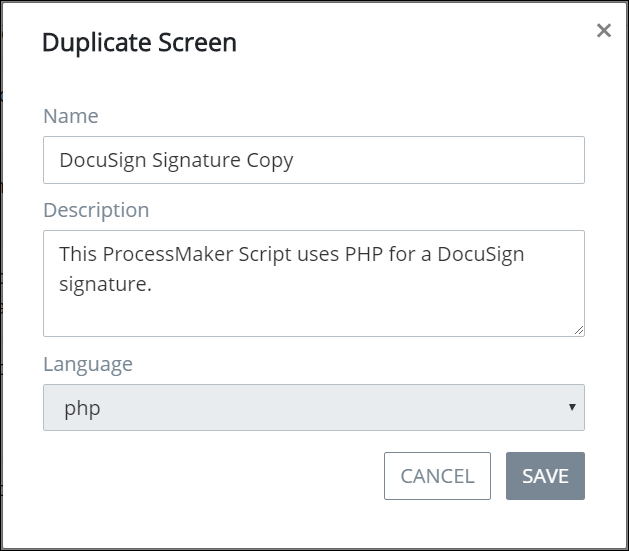
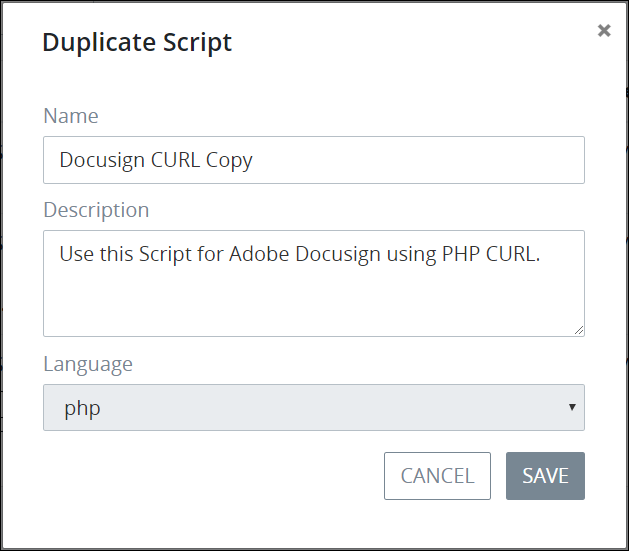
GitBook: [processmaker] 5 pages and 2 assets modified

diff --git a/designing-processes/design-forms/manage-forms/view-all-forms.md b/designing-processes/design-forms/manage-forms/view-all-forms.md
@@ -29,8 +29,8 @@ The **Screens** page displays the following information in tabular format about 
 * **Name:** The **Name** column displays the name of the ProcessMaker Screen. Click the name to edit the ProcessMaker Screen in [Screens Builder](../screens-builder/).
 * **Description:** The **Description** column displays the description of the ProcessMaker Screen. See [Edit Script Configuration](../../scripts/manage-scripts/edit-script-configuration.md#edit-configuration-information-about-a-processmaker-script) for more information.
 * **Type:** The **Type** column displays which type the ProcessMaker Screen is. See [Screen Types](../screens-builder/types-for-screens.md).
-* **Modified:** The **Modified** column displays the date and time the ProcessMaker Screen was last modified. The time zone setting to display the time is according to the ProcessMaker 4 server unless your [user profile's](../../../using-processmaker/profile-settings.md#change-your-profile-settings) **Time zone** setting is specified.
-* **Created:** The **Created** column displays the date and time the ProcessMaker Screen was created. The time zone setting to display the time is according to the ProcessMaker 4 server unless your [user profile's](../../../using-processmaker/profile-settings.md#change-your-profile-settings) **Time zone** setting is specified.
+* **Modified:** The **Modified** column displays the date and time the ProcessMaker Screen was last modified. The time zone setting to display the time is according to the ProcessMaker Spark server unless your [user profile's](../../../using-processmaker/profile-settings.md#change-your-profile-settings) **Time zone** setting is specified.
+* **Created:** The **Created** column displays the date and time the ProcessMaker Screen was created. The time zone setting to display the time is according to the ProcessMaker Spark server unless your [user profile's](../../../using-processmaker/profile-settings.md#change-your-profile-settings) **Time zone** setting is specified.
 
 {% hint style="info" %}
 ### Search for a ProcessMaker Screen

diff --git a/designing-processes/design-forms/what-is-a-form.md b/designing-processes/design-forms/what-is-a-form.md
@@ -6,9 +6,9 @@ description: Understand how to use Screens in ProcessMaker Spark.
 
 ## Overview
 
-In ProcessMaker Spark, any Screen can be re-used in any Process model. Many Processes require the same information to be gathered for a [Request](../../using-processmaker/requests/what-is-a-request.md) such as a Request participant's name, email address, and other business information. In other words, "design once, use anywhere."
+In ProcessMaker Spark, a Screen presents information for a person to interact with or view. A form is an example of a ProcessMaker Screen. Any ProcessMaker Screen can be re-used in any Process model. Many Processes require the same type of information be gathered, such as a [Request](../../using-processmaker/requests/what-is-a-request.md) participant's name, email address, and other business information. In other words, "design once, use anywhere."
 
-In simple forms, ProcessMaker Screens can display information. However, ProcessMaker Screens also allow users to interact with Request information. Below are a few of ways users can interact with ProcessMaker Screens:
+In simple forms, ProcessMaker Screens can display information. However, ProcessMaker Screens also allow people to interact with Request information. Below are a few of ways Request participants can interact with ProcessMaker Screens:
 
 * Enter information into a Request.
 * Review information and then approve or reject a Request.

diff --git a/designing-processes/scripts/manage-scripts/duplicate-a-script.md b/designing-processes/scripts/manage-scripts/duplicate-a-script.md
@@ -18,7 +18,7 @@ See the ProcessMaker [Scripts](../../../processmaker-administration/permission-d
 Follow these steps to duplicate a ProcessMaker Script:
 
 1. [View your ProcessMaker Scripts](view-all-scripts.md). The **Scripts** page displays.
-2. Select the **Duplicate** icon![](../../../.gitbook/assets/duplicate-script-processes.png)for your ProcessMaker Script. The **Duplicate Screen** screen displays.  
+2. Select the **Duplicate** icon![](../../../.gitbook/assets/duplicate-script-processes.png)for your ProcessMaker Script. The **Duplicate Script** screen displays.  
 
    ![](../../../.gitbook/assets/duplicate-script-screen-processes.png)
 
@@ -28,7 +28,7 @@ Follow these steps to duplicate a ProcessMaker Script:
 4. Click **Save**.
 
 {% hint style="info" %}
-The **Language** field shows in which programming language the original ProcessMaker Script is written. The duplicate ProcessMaker Script must be in the same programming language.
+The **Language** field shows in which programming language the original ProcessMaker Script is written. The duplicated ProcessMaker Script must use the same programming language.
 {% endhint %}
 
 ## Related Topics

diff --git a/processmaker-administration/add-users/manage-user-accounts/create-a-user-account.md b/processmaker-administration/add-users/manage-user-accounts/create-a-user-account.md
@@ -23,8 +23,8 @@ Follow these steps to create a ProcessMaker user account:
    ![](../../../.gitbook/assets/add-a-user-screen-admin.png)
 
 3. In the **Username** field, enter the username associated with the ProcessMaker user account. This is a required field.
-4. In the **First name** field, enter the first name of the person associated with the ProcessMaker user account.
-5. In the **Last name** field, enter the last name of the person associated with the ProcessMaker user account.
+4. In the **First name** field, enter the first name of the person associated with the ProcessMaker user account. This is a required field.
+5. In the **Last name** field, enter the last name of the person associated with the ProcessMaker user account. This is a required field.
 6. From the **Status** drop-down menu, select the status of the ProcessMaker user account using one of the following options:
    * **Active:** An Active ProcessMaker user account is one in which a person can use it to log in to ProcessMaker.
    * **Inactive:** An Inactive ProcessMaker user account is one in which a person cannot use it to log in to ProcessMaker.

diff --git a/using-processmaker/profile-settings.md b/using-processmaker/profile-settings.md
@@ -32,8 +32,8 @@ Follow these steps to change your profile settings:
 
 2. The ProcessMaker Administrator may have entered some profile settings when your [user account was created](../processmaker-administration/add-users/manage-user-accounts/create-a-user-account.md#create-a-processmaker-user-account). Follow these guidelines to change your profile information as necessary:
    * In the **Name** section, change the following information:
-     * In the **First Name** field, enter your first name. ~~This is a required field.~~
-     * In the **Last Name** field, enter your last name. ~~This is a required field.~~
+     * In the **First Name** field, enter your first name. This is a required field.
+     * In the **Last Name** field, enter your last name. This is a required field.
    * In the **Contact Information** section, change the following information:
      * In the **Email** field, enter your business email address. This is a required field.
      * In the **Phone** field, enter your business telephone or cell phone number.
